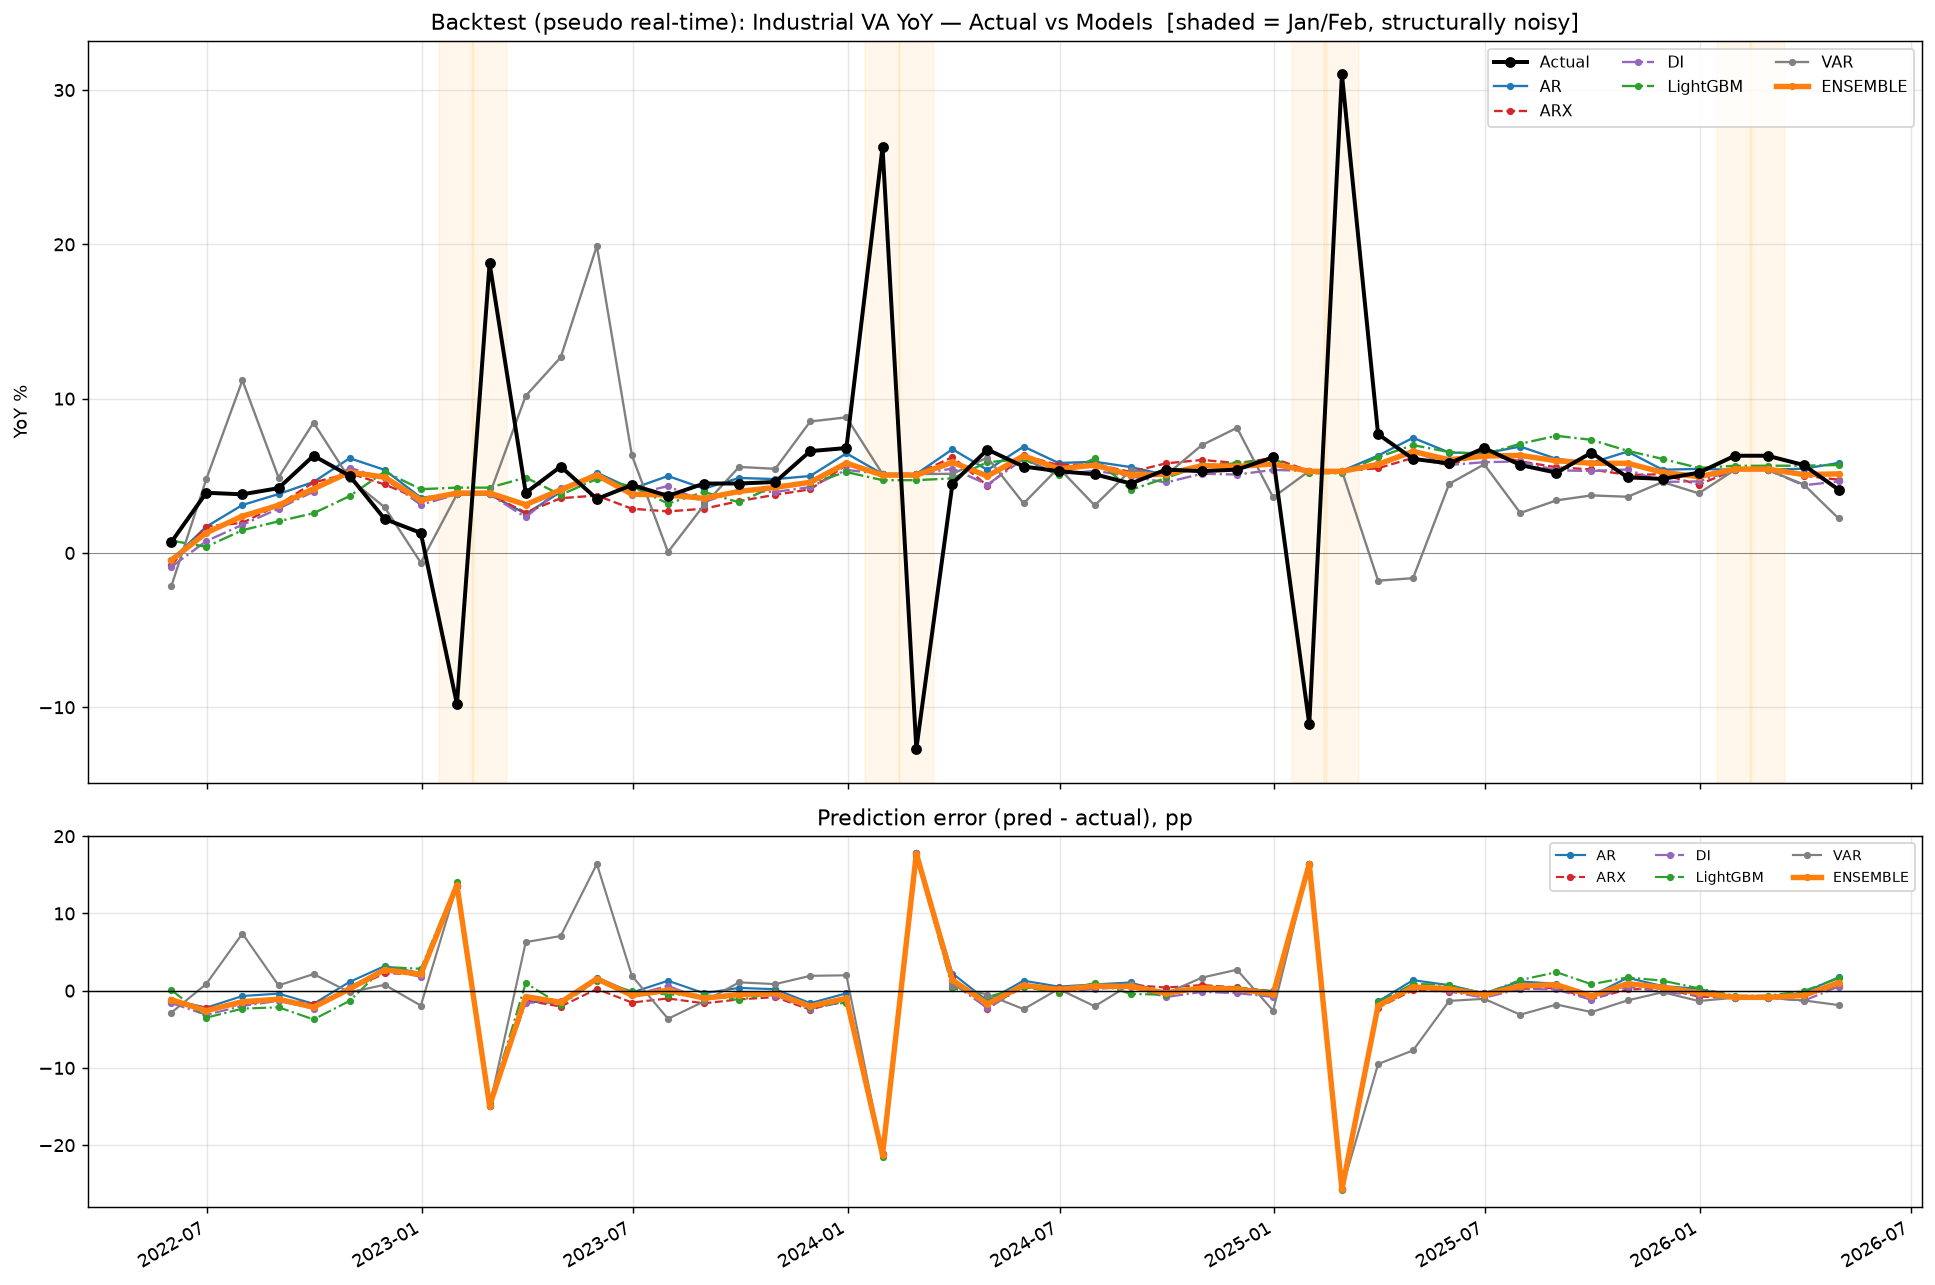
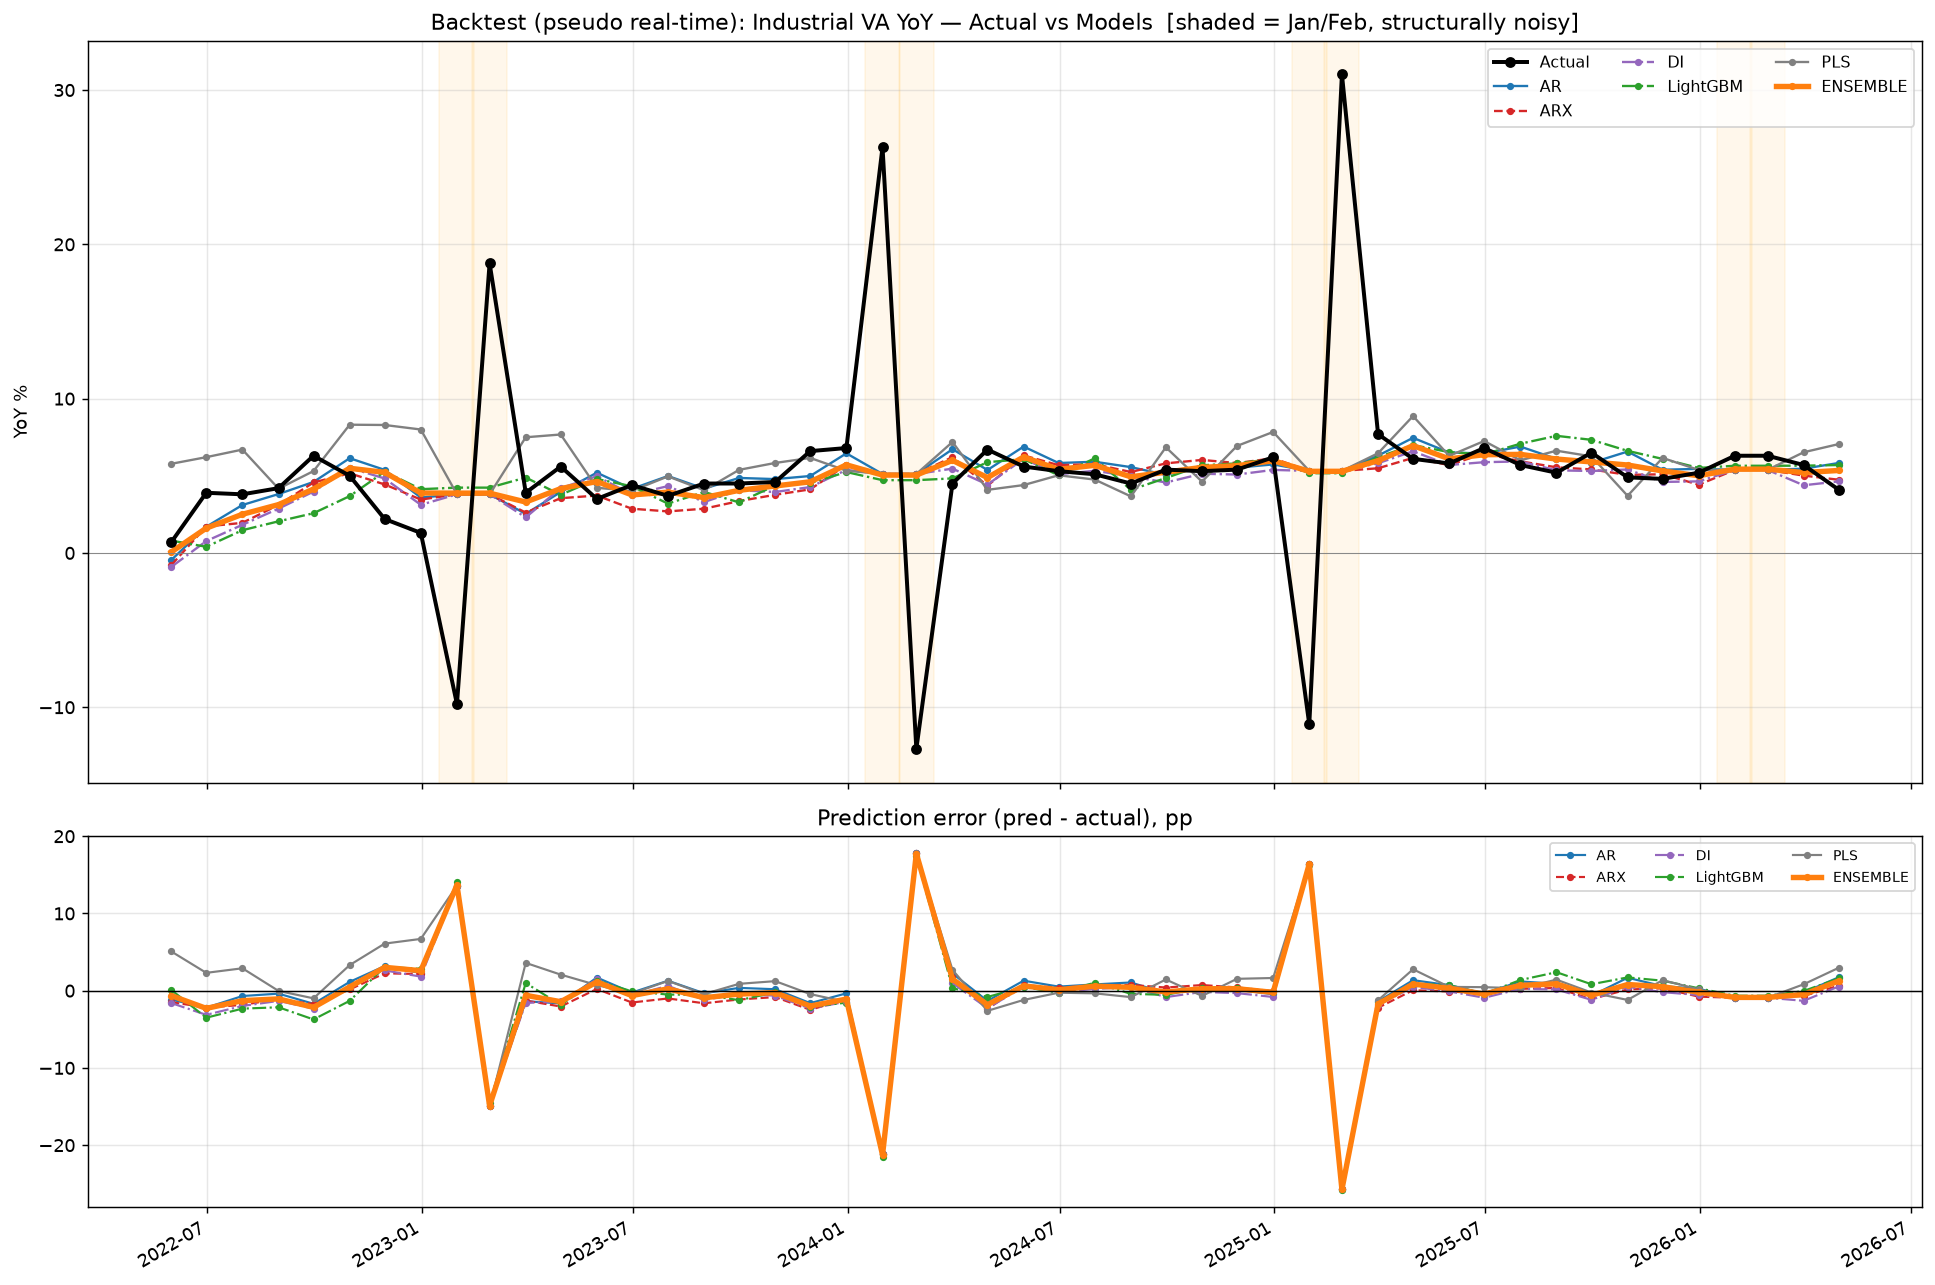
删除VAR，新增 PLS 高频桥接模型（去相关多样性，改善组合）
动机(诊断实验 experiment_diversity.py)：
- 现有 AR/ARX/DI 误差两两相关 0.87-0.97（皆锚AR），多样性已饱和，
  再加同族模型对组合无益；组合提升只来自"误差去相关"
- 删除 VAR（回测最弱、贡献≈0）

新增 ModelPLS（偏最小二乘高频桥接）：
- 仅用当月可观测高频(_t0)，刻意【不锚AR】，PLS 提取监督成分
- 单体 RMSE 2.27 较高，但误差与现有模型仅 0.3 相关，凭去相关降低组合方差
- Config: 新增 enable_pls / pls_components；移除 enable_var/var_* 与 ModelVAR

结果(剔除1-2月,48月回测,无门控)：
- 五模型组合 AR+ARX+DI+LightGBM+PLS：RMSE 1.168 / MAE 0.924（迄今最佳）
- 本月点预测 4.54%（实际公布 4.5），80% [3.04,6.04]，95% [1.96,7.12]
- 校准良好 PICP@80=0.825 / PICP@95=0.950

Claude-Session: https://claude.ai/code/session_01Lyk2ycG3dbMTHNTX5YaMUQ

diff --git a/industrial_va_forecast.py b/industrial_va_forecast.py
@@ -134,14 +134,12 @@ class Config:
     ensemble_weight_power: float = 2.0  # 权重=1/RMSE^power。2=逆MSE,更狠地压制不稳定模型
 
     # ---- 模型集合 ----
-    # 评估/组合集合: AR + ARX + DI + LightGBM + VAR（五类机制：自回归/线性高频桥接/
-    # 因子/非线性/向量自回归系统）。
+    # 组合集合: AR + ARX + DI + LightGBM + PLS（五类机制：自回归/线性高频桥接/PCA因子/
+    # 非线性/PLS纯高频桥接）。AR/ARX/DI 误差高度相关(0.87-0.97)，多样性已饱和；LightGBM
+    # 与 PLS 提供去相关增量（PLS 不锚AR、误差仅0.3相关，凭去相关改善组合）。
     enable_probe_models: bool = True     # 纳入 LightGBM（锚定+GBM残差，非线性）
-    enable_var: bool = True              # 纳入 VAR（目标+月度宏观同频系统，h=1外推）
-    # VAR 系统变量（月度、近似平稳的同比/比率口径）。目标必为第一个。
-    var_system_vars: tuple = ("IVA_yoy", "power_yoy", "ppi_yoy", "retail_yoy",
-                              "pmi", "pmi_neworder", "ppirm_yoy")
-    var_max_lag: int = 6                 # VAR 最大滞后阶（由 BIC 在 1..该值内选）
+    enable_pls: bool = True              # 纳入 PLS（纯当月高频桥接, 不锚AR, 去相关多样性）
+    pls_components: int = 2              # PLS 成分数（小，抗过拟合）
 
     # ---- 基准与"是否真有技能"门控 ----
     # 基准 = AR(p)：平稳自相关序列的标准技能下限(比"近期均值"更严格、更规范)。
@@ -1014,75 +1012,82 @@ class ModelARX(BaseModel):
 
 
 # ------------------------------------------------------------------------------
-# 8.4d  VAR（向量自回归，目标+月度宏观同频系统）
+# 8.4d  PLS（纯当月高频桥接 nowcast，偏最小二乘，【不锚定AR】——为组合提供去相关多样性）
 # ------------------------------------------------------------------------------
-class ModelVAR(BaseModel):
-    """向量自回归(VAR)：将【目标 + 若干月度宏观】放入同频系统联合估计，h=1 外推取目标分量。
+class ModelPLS(BaseModel):
+    """偏最小二乘(PLS)高频桥接 nowcast：非1-2月目标 ~ 仅【当月可观测高频(_t0)】，
+    PLS 提取与目标最相关的监督成分，【刻意不含任何 AR 滞后】。
 
-    结构性局限（务必知悉）：VAR 要求同频、整向量联合外推。在 as_of(T) 时点，月度宏观与
-    目标当月均未发布，故 VAR 只能用 ≤T-1 的信息向前推一步，【无法吸收当月已观测的高频
-    nowcast】——这是它相对 DI/ARX 的天然劣势(经判决性实验证实其回测显著弱于 DI)。此处
-    按需纳入组合以观察其实际贡献。1-2 月退化为近期非1-2月均值，与其他模型一致。
+    存在意义（经诊断实验确认）：AR/ARX/DI 误差两两相关高达 0.87-0.97（皆锚定 AR 惯性），
+    多样性已近饱和。本模型从【纯当月高频、无惯性锚】的不同角度切入，误差与现有模型仅
+    0.3 相关——虽单体 RMSE 较高，但并入组合后凭【去相关】降低组合方差(回测 1.204->1.168)。
+      - 与 DI 的区别：DI 用 PCA(无监督因子)+AR 锚；本模型用 PLS(监督成分)且无 AR 锚；
+      - 受小权重(逆MSE^2)与极端值护栏保护，不会因偶发噪声主导结果；
+      - 1-2月退化为近期非1-2月均值，与其他模型一致。
     """
-    name = "VAR"
+    name = "PLS"
 
     def __init__(self, cfg: Config):
         self.cfg = cfg
 
     def predict_asof(self, target_month, as_of, ctx) -> Optional[Prediction]:
-        from statsmodels.tsa.api import VAR
+        from sklearn.cross_decomposition import PLSRegression
+        from sklearn.preprocessing import StandardScaler
         cfg = self.cfg
+        feat = ctx.realtime_feature_matrix()
+        if target_month not in feat.index:
+            return None
+        ytar = feat["__target__"]
+        nf = feat.index[~feat.index.month.isin([1, 2])]
         if target_month.month in (1, 2):
-            ynf = _target_history(ctx, as_of, target_month, drop_janfeb=True)
-            if ynf is None or len(ynf) < 6:
+            ynf = ytar.loc[nf].dropna()
+            ynf = ynf[ynf.index < target_month]
+            if len(ynf) < 6:
                 return None
             p = float(ynf.tail(cfg.janfeb_fallback_k).mean())
             out = Prediction(point=p)
             _gauss_interval(out, p, float(ynf.tail(cfg.janfeb_fallback_k).std(ddof=1)), cfg)
             return out
-        panel = ctx.aligner.build_monthly_panel(as_of)
-        vars_ = [v for v in cfg.var_system_vars if v in panel.columns]
-        if "IVA_yoy" not in vars_ or len(vars_) < 2:
+        # 仅当月高频(_t0)、排除目标自回归 y_* 与春节哑变量——纯 nowcast 信号、无 AR 锚
+        hf_t0 = [c for c in feat.columns if c.endswith("_t0")
+                 and not c.startswith("y_") and "__" not in c]
+        test_row = feat.loc[target_month]
+        train_idx = nf[(nf < target_month) & ytar.loc[nf].notna()]
+        if len(train_idx) > cfg.max_train_months:
+            train_idx = train_idx[-cfg.max_train_months:]
+        if len(train_idx) < 36:
             return None
-        # as_of 仅见到 < target_month 的月度值（目标与月度宏观当月均未发布）
-        sub = panel.loc[panel.index < month_end(target_month), vars_].copy()
-        sub = sub.dropna(how="all")
-        valid = [v for v in vars_ if sub[v].notna().any()]
-        if "IVA_yoy" not in valid or len(valid) < 2:
+        ytr = ytar.loc[train_idx]
+        min_cov = max(24, len(train_idx) // 3)
+        cand = [c for c in hf_t0 if pd.notna(test_row[c])
+                and feat.loc[train_idx, c].notna().sum() >= min_cov]
+        corr = {}
+        for c in cand:
+            v = feat.loc[train_idx, c]; mk = v.notna() & ytr.notna()
+            if mk.sum() >= 24 and v[mk].std() > 1e-9:
+                corr[c] = abs(np.corrcoef(v[mk], ytr[mk])[0, 1])
+        top = [c for c, _ in sorted(corr.items(), key=lambda kv: kv[1],
+                                    reverse=True)[:cfg.bridge_topk_features]]
+        if len(top) < 5:
             return None
-        start = max(sub[v].first_valid_index() for v in valid)
-        sub = sub.loc[sub.index >= start, valid]
-        # 系统内部小缺口按时间方向插值（仍只用 <T 的数据，无前视）
-        sub = sub.interpolate(limit_direction="both").dropna()
-        if len(sub) > cfg.max_train_months:
-            sub = sub.iloc[-cfg.max_train_months:]
-        if len(sub) < 60:
-            return None
+        Xtr = feat.loc[train_idx, top]; Xte = feat.loc[[target_month], top]
+        med = Xtr.median()
+        Xtr = Xtr.fillna(med).fillna(0.0); Xte = Xte.fillna(med).fillna(0.0)
         try:
-            model = VAR(sub.values)
-            maxlag = max(1, int(min(cfg.var_max_lag,
-                                    max(1, len(sub) // (5 * len(valid))))))
-            try:
-                sel = model.select_order(maxlags=maxlag)
-                p = int(sel.selected_orders.get("bic", 1))
-            except Exception:
-                p = 1
-            p = max(1, min(p, maxlag))
-            res = model.fit(p)
-            fc = res.forecast(sub.values[-p:], steps=1)
-            iva_idx = valid.index("IVA_yoy")
-            point = float(fc[0, iva_idx])
-            try:
-                sigma = float(np.sqrt(res.sigma_u[iva_idx, iva_idx]))
-            except Exception:
-                sigma = float(np.std(sub["IVA_yoy"].values, ddof=1))
+            sc = StandardScaler()
+            Xs = sc.fit_transform(Xtr.values); Xe = sc.transform(Xte.values)
+            nc = int(min(cfg.pls_components, Xs.shape[1], max(1, len(ytr) // 30)))
+            pls = PLSRegression(n_components=max(1, nc))
+            pls.fit(Xs, ytr.values)
+            point = float(pls.predict(Xe).ravel()[0])
+            sigma = float(np.std(ytr.values - pls.predict(Xs).ravel(), ddof=1))
             out = Prediction(point=point)
             _gauss_interval(out, point, sigma, cfg)
-            out.extra["var_lag"] = p
-            out.extra["var_vars"] = valid
+            out.extra["n_features"] = len(top)
+            out.extra["n_components"] = max(1, nc)
             return out
         except Exception as e:
-            LOG.warning("VAR 在 %s 失败：%s", target_month.date(), e)
+            LOG.warning("PLS 在 %s 失败：%s", target_month.date(), e)
             return None
 # ==============================================================================
 # 第 9 节  上下文（按 as_of 缓存对齐面板与特征，避免重复计算）
@@ -1823,8 +1828,8 @@ def main(cfg: Config = CFG):
         aligner, as_of_live, apply_pub_lag=False)
 
     # 3) 模型集合 —— 多类机制并存，提供方法学多样性：
-    #    AR(单变量惯性) + ARX(线性高频桥接) + DI(扩散指数/因子模型)
-    #    + LightGBM(非线性) + VAR(同频系统)。是否剔除由 ensemble_gate_models 决定。
+    #    AR(单变量惯性) + ARX(线性高频桥接) + DI(扩散指数/因子模型) + LightGBM(非线性)。
+    #    是否剔除由 ensemble_gate_models 决定。
     models = [
         ModelAR(cfg),            # 基准：AR(p) BIC（单变量惯性）
         ModelARX(cfg),           # AR 滞后 + 高频外生（ElasticNet, 时序CV）
@@ -1832,8 +1837,8 @@ def main(cfg: Config = CFG):
     ]
     if cfg.enable_probe_models:
         models += [ModelLGB(cfg)]    # 锚定 + 梯度提升残差（非线性）
-    if cfg.enable_var:
-        models += [ModelVAR(cfg)]    # 向量自回归（目标+月度宏观同频系统, h=1 外推）
+    if cfg.enable_pls:
+        models += [ModelPLS(cfg)]    # 纯当月高频 PLS 桥接（不锚AR, 去相关多样性）
     model_names = [m.name for m in models]
 
     # 4) 回测（伪真实时点）

diff --git a/experiment_diversity.py b/experiment_diversity.py
@@ -1,0 +1,108 @@
+# -*- coding: utf-8 -*-
+"""诊断：现有组合还有多少"多样性空间"？加新模型能否改善？
+
+(1) 用现有回测明细算【各模型误差相关性】——相关性越高，再加同族模型越无用；
+(2) 实测一个【真正不同角度】的候选：纯当月高频 nowcast(不锚定AR, PLS)，看它是否
+    与现有模型去相关、且并入后能降低组合 RMSE。用结果说话。
+"""
+import numpy as np, pandas as pd
+import industrial_va_forecast as M
+
+# ---------- (1) 现有模型误差相关性 ----------
+bt = pd.read_csv("output/backtest_predictions.csv", parse_dates=["target_month"])
+bt = bt[~bt["is_jan_feb"]].set_index("target_month")   # 只看正常月
+models = ["AR", "ARX", "DI", "LightGBM"]
+err = pd.DataFrame({m: bt[f"{m}__point"] - bt["y_true"] for m in models}).dropna()
+print("===== (1) 现有4模型 预测误差相关矩阵 (剔除1-2月, n=%d) =====" % len(err))
+print(err.corr().round(2).to_string())
+print("\n各模型 RMSE:", {m: round(np.sqrt((err[m]**2).mean()), 3) for m in models})
+print("误差两两相关均值:", round(
+    err.corr().values[np.triu_indices(len(models), 1)].mean(), 3))
+
+# ---------- (2) 候选：纯当月高频 nowcast(不锚AR, PLS) ----------
+cfg = M.Config()
+def load_raw(cfg):
+    xl = pd.ExcelFile(cfg.excel_path); raw = {}
+    for sh in [cfg.sheet_target, cfg.sheet_month, cfg.sheet_tenday,
+               cfg.sheet_week, cfg.sheet_day]:
+        df = xl.parse(sh); df.columns = [str(c).strip() for c in df.columns]
+        dc = df.columns[0]; df[dc] = pd.to_datetime(df[dc], errors="coerce")
+        df = df.dropna(subset=[dc]).sort_values(dc).rename(columns={dc: "date"})
+        for c in df.columns:
+            if c != "date": df[c] = pd.to_numeric(df[c], errors="coerce")
+        raw[sh] = df
+    return raw
+raw = load_raw(cfg)
+inds = M.build_indicator_dict(cfg)
+aligner = M.FrequencyAligner(cfg, raw, inds)
+ctx = M.Context(cfg, aligner, M.FeatureBuilder(cfg)); M._wire_context_cache(ctx)
+full = aligner.build_monthly_panel(pd.Timestamp("2100-01-01"))
+cfg.asof_gap_days = M.resolve_asof_gap(
+    cfg, raw, M.month_end(full["IVA_yoy"].dropna().index.max() + pd.offsets.MonthBegin(1)))
+feat = ctx.realtime_feature_matrix()
+ytar = feat["__target__"]
+
+def f_HFnowcast(target_month):
+    """纯当月高频 nowcast：仅用【当月可观测高频 _t0】列, PLS(2成分), 不含任何AR滞后。
+
+    与 AR/ARX/DI 的根本区别：不锚定目标自身惯性，只让当月高频说话 -> 误差结构不同。
+    """
+    from sklearn.cross_decomposition import PLSRegression
+    from sklearn.preprocessing import StandardScaler
+    if target_month.month in (1, 2) or target_month not in feat.index:
+        return None
+    nf = feat.index[~feat.index.month.isin([1, 2])]
+    # 仅当月高频(_t0)、且为高频sheet(日/周/旬)来源——当月真正可观测的 nowcast 信号
+    hf_t0 = [c for c in feat.columns if c.endswith("_t0")
+             and not c.startswith(("y_",)) and "__" not in c]
+    test_row = feat.loc[target_month]
+    train_idx = nf[(nf < target_month) & ytar.loc[nf].notna()]
+    if len(train_idx) > cfg.max_train_months: train_idx = train_idx[-cfg.max_train_months:]
+    if len(train_idx) < 36: return None
+    ytr = ytar.loc[train_idx]
+    min_cov = max(24, len(train_idx)//3)
+    cand = [c for c in hf_t0 if pd.notna(test_row[c])
+            and feat.loc[train_idx, c].notna().sum() >= min_cov]
+    corr = {}
+    for c in cand:
+        v = feat.loc[train_idx, c]; mk = v.notna() & ytr.notna()
+        if mk.sum() >= 24 and v[mk].std() > 1e-9:
+            corr[c] = abs(np.corrcoef(v[mk], ytr[mk])[0, 1])
+    top = [c for c, _ in sorted(corr.items(), key=lambda kv: kv[1], reverse=True)[:30]]
+    if len(top) < 5: return None
+    Xtr = feat.loc[train_idx, top]; Xte = feat.loc[[target_month], top]
+    med = Xtr.median(); Xtr = Xtr.fillna(med).fillna(0.0); Xte = Xte.fillna(med).fillna(0.0)
+    try:
+        sc = StandardScaler(); Xs = sc.fit_transform(Xtr.values); Xe = sc.transform(Xte.values)
+        pls = PLSRegression(n_components=2); pls.fit(Xs, ytr.values)
+        return float(pls.predict(Xe).ravel()[0])
+    except Exception:
+        return None
+
+# 在与主回测相同的月份上算候选预测
+hf_pred = pd.Series({T: f_HFnowcast(T) for T in err.index}, name="HFnowcast")
+err2 = err.copy(); err2["HFnowcast"] = hf_pred - bt["y_true"].reindex(err.index)
+err2 = err2.dropna()
+print("\n===== (2) 候选 HFnowcast(纯当月高频, 不锚AR, PLS) =====")
+print("HFnowcast RMSE:", round(np.sqrt((err2["HFnowcast"]**2).mean()), 3),
+      " n=", len(err2))
+print("与现有模型误差相关:", err2.corr()["HFnowcast"].drop("HFnowcast").round(2).to_dict())
+
+# ---------- (3) 加入候选后，组合RMSE是否改善？(逆MSE^2加权, 同主程序口径) ----------
+def ens_rmse(cols):
+    sub = bt.loc[err2.index]
+    preds = {c: (sub[f"{c}__point"] if c in models else hf_pred.reindex(err2.index))
+             for c in cols}
+    P = pd.DataFrame(preds)
+    r = {c: np.sqrt(((P[c]-sub["y_true"])**2).mean()) for c in cols}
+    w = {c: 1.0/max(r[c], 1e-6)**cfg.ensemble_weight_power for c in cols}
+    s = sum(w.values()); w = {c: v/s for c, v in w.items()}
+    comb = sum(w[c]*P[c] for c in cols)
+    return np.sqrt(((comb - sub["y_true"])**2).mean()), w
+
+r4, w4 = ens_rmse(models)
+r5, w5 = ens_rmse(models + ["HFnowcast"])
+print("\n===== (3) 组合效果对比 (同一批正常月, n=%d) =====" % len(err2))
+print(f"4模型组合(AR+ARX+DI+LightGBM)        RMSE={r4:.3f}")
+print(f"5模型组合(+HFnowcast)               RMSE={r5:.3f}  权重={ {k:round(v,3) for k,v in w5.items()} }")
+print(f"\n改善: {r4-r5:+.4f} pp  ->", "候选有助" if r5 < r4-1e-3 else "几乎无改善/无助")
